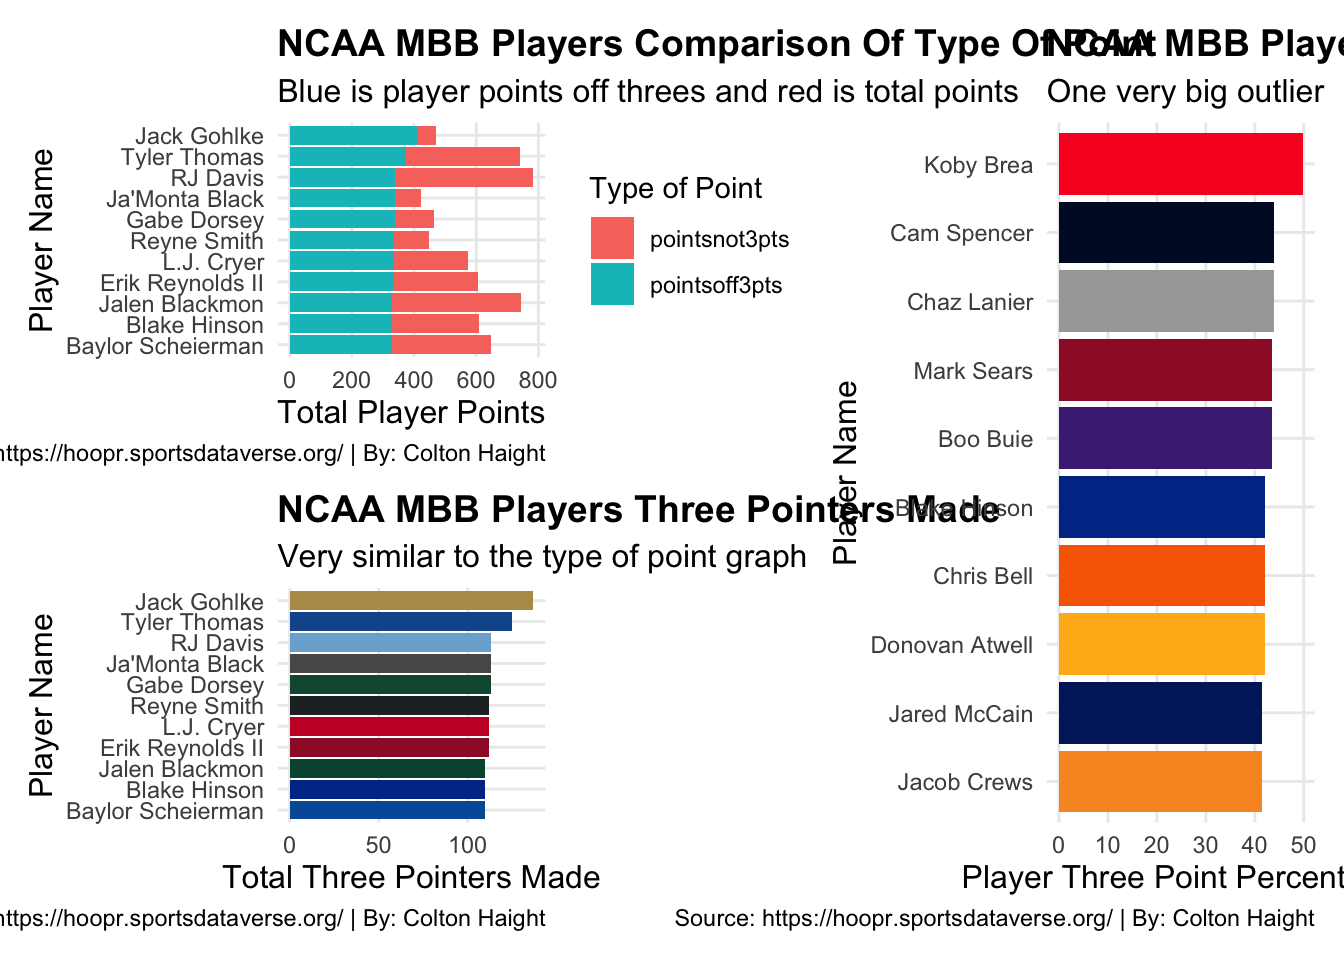
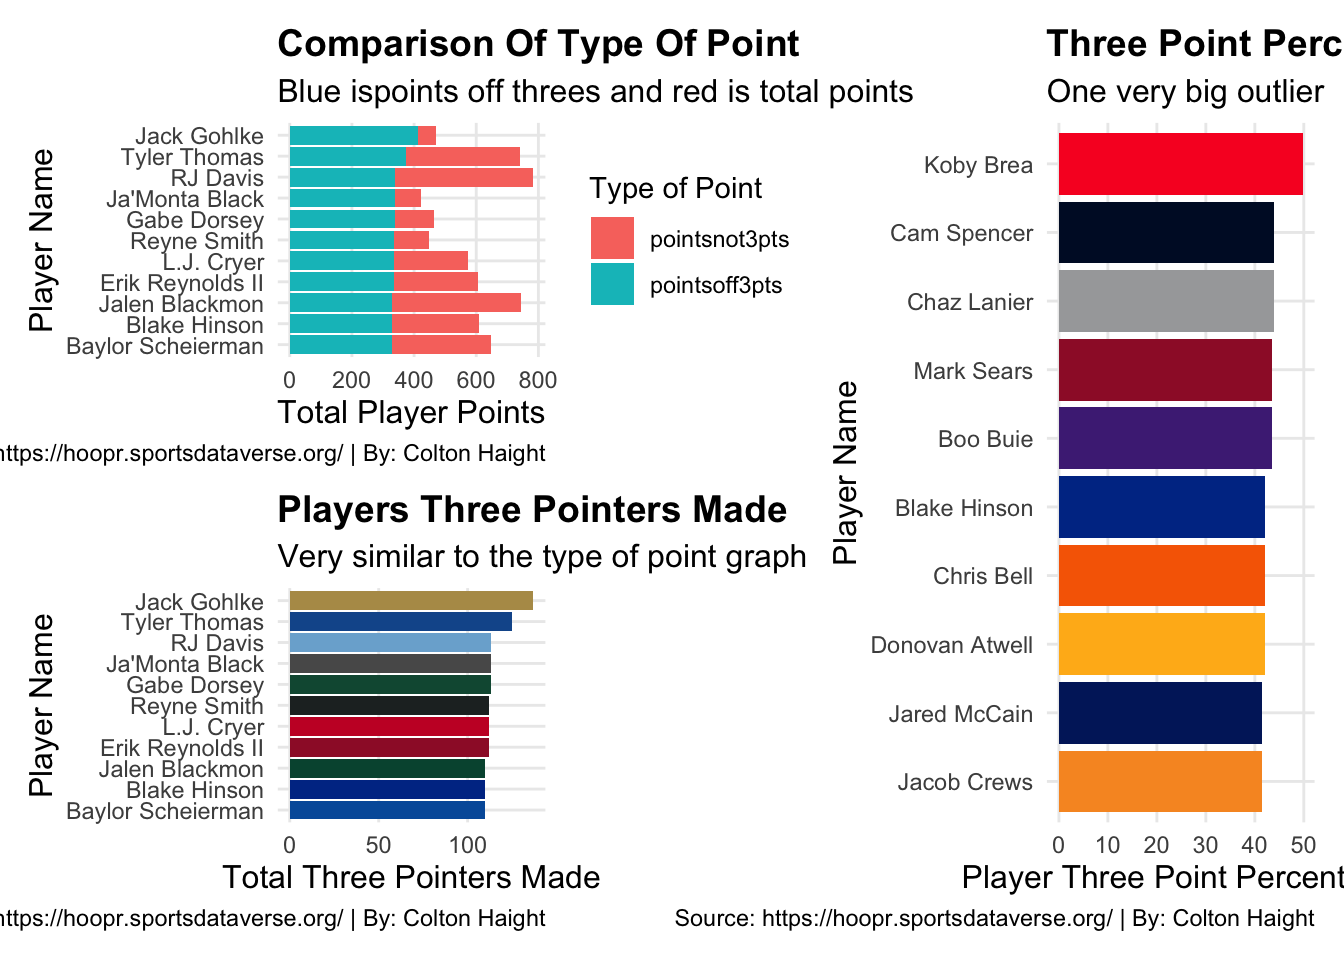
changed plots

Changed region(s): [[0.1875, 0.0312, 1.0, 0.125], [0.2188, 0.5, 0.75, 0.5625]]

diff --git a/posts/best-3pt-shooter-mcbb-2024/index.html b/posts/best-3pt-shooter-mcbb-2024/index.html
@@ -361,8 +361,8 @@ pre > code.sourceCode > span > a:first-child::before { text-decoration: underlin
 <span id="cb4-31"><a href="#cb4-31" aria-hidden="true" tabindex="-1"></a>  <span class="fu">labs</span>(</span>
 <span id="cb4-32"><a href="#cb4-32" aria-hidden="true" tabindex="-1"></a>    <span class="at">x =</span> <span class="st">"Player Name"</span>,</span>
 <span id="cb4-33"><a href="#cb4-33" aria-hidden="true" tabindex="-1"></a>    <span class="at">y =</span> <span class="st">"Total Player Points"</span>,</span>
-<span id="cb4-34"><a href="#cb4-34" aria-hidden="true" tabindex="-1"></a>    <span class="at">title =</span> <span class="st">"NCAA MBB Players Comparison Of Type Of Point"</span>,</span>
-<span id="cb4-35"><a href="#cb4-35" aria-hidden="true" tabindex="-1"></a>    <span class="at">subtitle =</span> <span class="st">"Blue is player points off threes and red is total points"</span>,</span>
+<span id="cb4-34"><a href="#cb4-34" aria-hidden="true" tabindex="-1"></a>    <span class="at">title =</span> <span class="st">"Comparison Of Type Of Point"</span>,</span>
+<span id="cb4-35"><a href="#cb4-35" aria-hidden="true" tabindex="-1"></a>    <span class="at">subtitle =</span> <span class="st">"Blue ispoints off threes and red is total points"</span>,</span>
 <span id="cb4-36"><a href="#cb4-36" aria-hidden="true" tabindex="-1"></a>    <span class="at">caption =</span> <span class="st">"Source: https://hoopr.sportsdataverse.org/ | By: Colton Haight"</span>,</span>
 <span id="cb4-37"><a href="#cb4-37" aria-hidden="true" tabindex="-1"></a>    <span class="at">fill =</span> <span class="st">"Type of Point"</span></span>
 <span id="cb4-38"><a href="#cb4-38" aria-hidden="true" tabindex="-1"></a>  ) <span class="sc">+</span></span>
@@ -391,7 +391,7 @@ pre > code.sourceCode > span > a:first-child::before { text-decoration: underlin
 <span id="cb4-61"><a href="#cb4-61" aria-hidden="true" tabindex="-1"></a>  <span class="fu">labs</span>(</span>
 <span id="cb4-62"><a href="#cb4-62" aria-hidden="true" tabindex="-1"></a>    <span class="at">x =</span> <span class="st">"Player Name"</span>,</span>
 <span id="cb4-63"><a href="#cb4-63" aria-hidden="true" tabindex="-1"></a>    <span class="at">y =</span> <span class="st">"Total Three Pointers Made"</span>,</span>
-<span id="cb4-64"><a href="#cb4-64" aria-hidden="true" tabindex="-1"></a>    <span class="at">title =</span> <span class="st">"NCAA MBB Players Three Pointers Made"</span>,</span>
+<span id="cb4-64"><a href="#cb4-64" aria-hidden="true" tabindex="-1"></a>    <span class="at">title =</span> <span class="st">"Players Three Pointers Made"</span>,</span>
 <span id="cb4-65"><a href="#cb4-65" aria-hidden="true" tabindex="-1"></a>    <span class="at">subtitle =</span> <span class="st">"Very similar to the type of point graph"</span>,</span>
 <span id="cb4-66"><a href="#cb4-66" aria-hidden="true" tabindex="-1"></a>    <span class="at">caption =</span> <span class="st">"Source: https://hoopr.sportsdataverse.org/ | By: Colton Haight"</span></span>
 <span id="cb4-67"><a href="#cb4-67" aria-hidden="true" tabindex="-1"></a>  ) <span class="sc">+</span></span>
@@ -430,7 +430,7 @@ pre > code.sourceCode > span > a:first-child::before { text-decoration: underlin
 <span id="cb4-100"><a href="#cb4-100" aria-hidden="true" tabindex="-1"></a>  <span class="fu">labs</span>(</span>
 <span id="cb4-101"><a href="#cb4-101" aria-hidden="true" tabindex="-1"></a>    <span class="at">x =</span> <span class="st">"Player Name"</span>,</span>
 <span id="cb4-102"><a href="#cb4-102" aria-hidden="true" tabindex="-1"></a>    <span class="at">y =</span> <span class="st">"Player Three Point Percentage"</span>,</span>
-<span id="cb4-103"><a href="#cb4-103" aria-hidden="true" tabindex="-1"></a>    <span class="at">title =</span> <span class="st">"NCAA MBB Players Three Point Percentage"</span>,</span>
+<span id="cb4-103"><a href="#cb4-103" aria-hidden="true" tabindex="-1"></a>    <span class="at">title =</span> <span class="st">"Three Point Percentage"</span>,</span>
 <span id="cb4-104"><a href="#cb4-104" aria-hidden="true" tabindex="-1"></a>    <span class="at">subtitle =</span> <span class="st">"One very big outlier"</span>,</span>
 <span id="cb4-105"><a href="#cb4-105" aria-hidden="true" tabindex="-1"></a>    <span class="at">caption =</span> <span class="st">"Source: https://hoopr.sportsdataverse.org/ | By: Colton Haight"</span></span>
 <span id="cb4-106"><a href="#cb4-106" aria-hidden="true" tabindex="-1"></a>  ) <span class="sc">+</span></span>

diff --git a/index.html b/index.html
@@ -205,7 +205,7 @@ window.Quarto = {
 
 <div class="quarto-listing quarto-listing-container-default" id="listing-listing">
 <div class="list quarto-listing-default">
-<div class="quarto-post image-right" data-index="0" data-categories="TkNBQSxCYXNrZXRiYWw=" data-listing-date-sort="1730786400000" data-listing-file-modified-sort="1731261891517" data-listing-date-modified-sort="NaN" data-listing-reading-time-sort="8" data-listing-word-count-sort="1501">
+<div class="quarto-post image-right" data-index="0" data-categories="TkNBQSxCYXNrZXRiYWw=" data-listing-date-sort="1730786400000" data-listing-file-modified-sort="1731262095384" data-listing-date-modified-sort="NaN" data-listing-reading-time-sort="8" data-listing-word-count-sort="1491">
 <div class="thumbnail">
 <p><a href="./posts/best-3pt-shooter-mcbb-2024/index.html" class="no-external"></a></p><a href="./posts/best-3pt-shooter-mcbb-2024/index.html" class="no-external">
 <p><img loading="lazy" src="./posts/best-3pt-shooter-mcbb-2024/image.png" class="thumbnail-image"></p>
